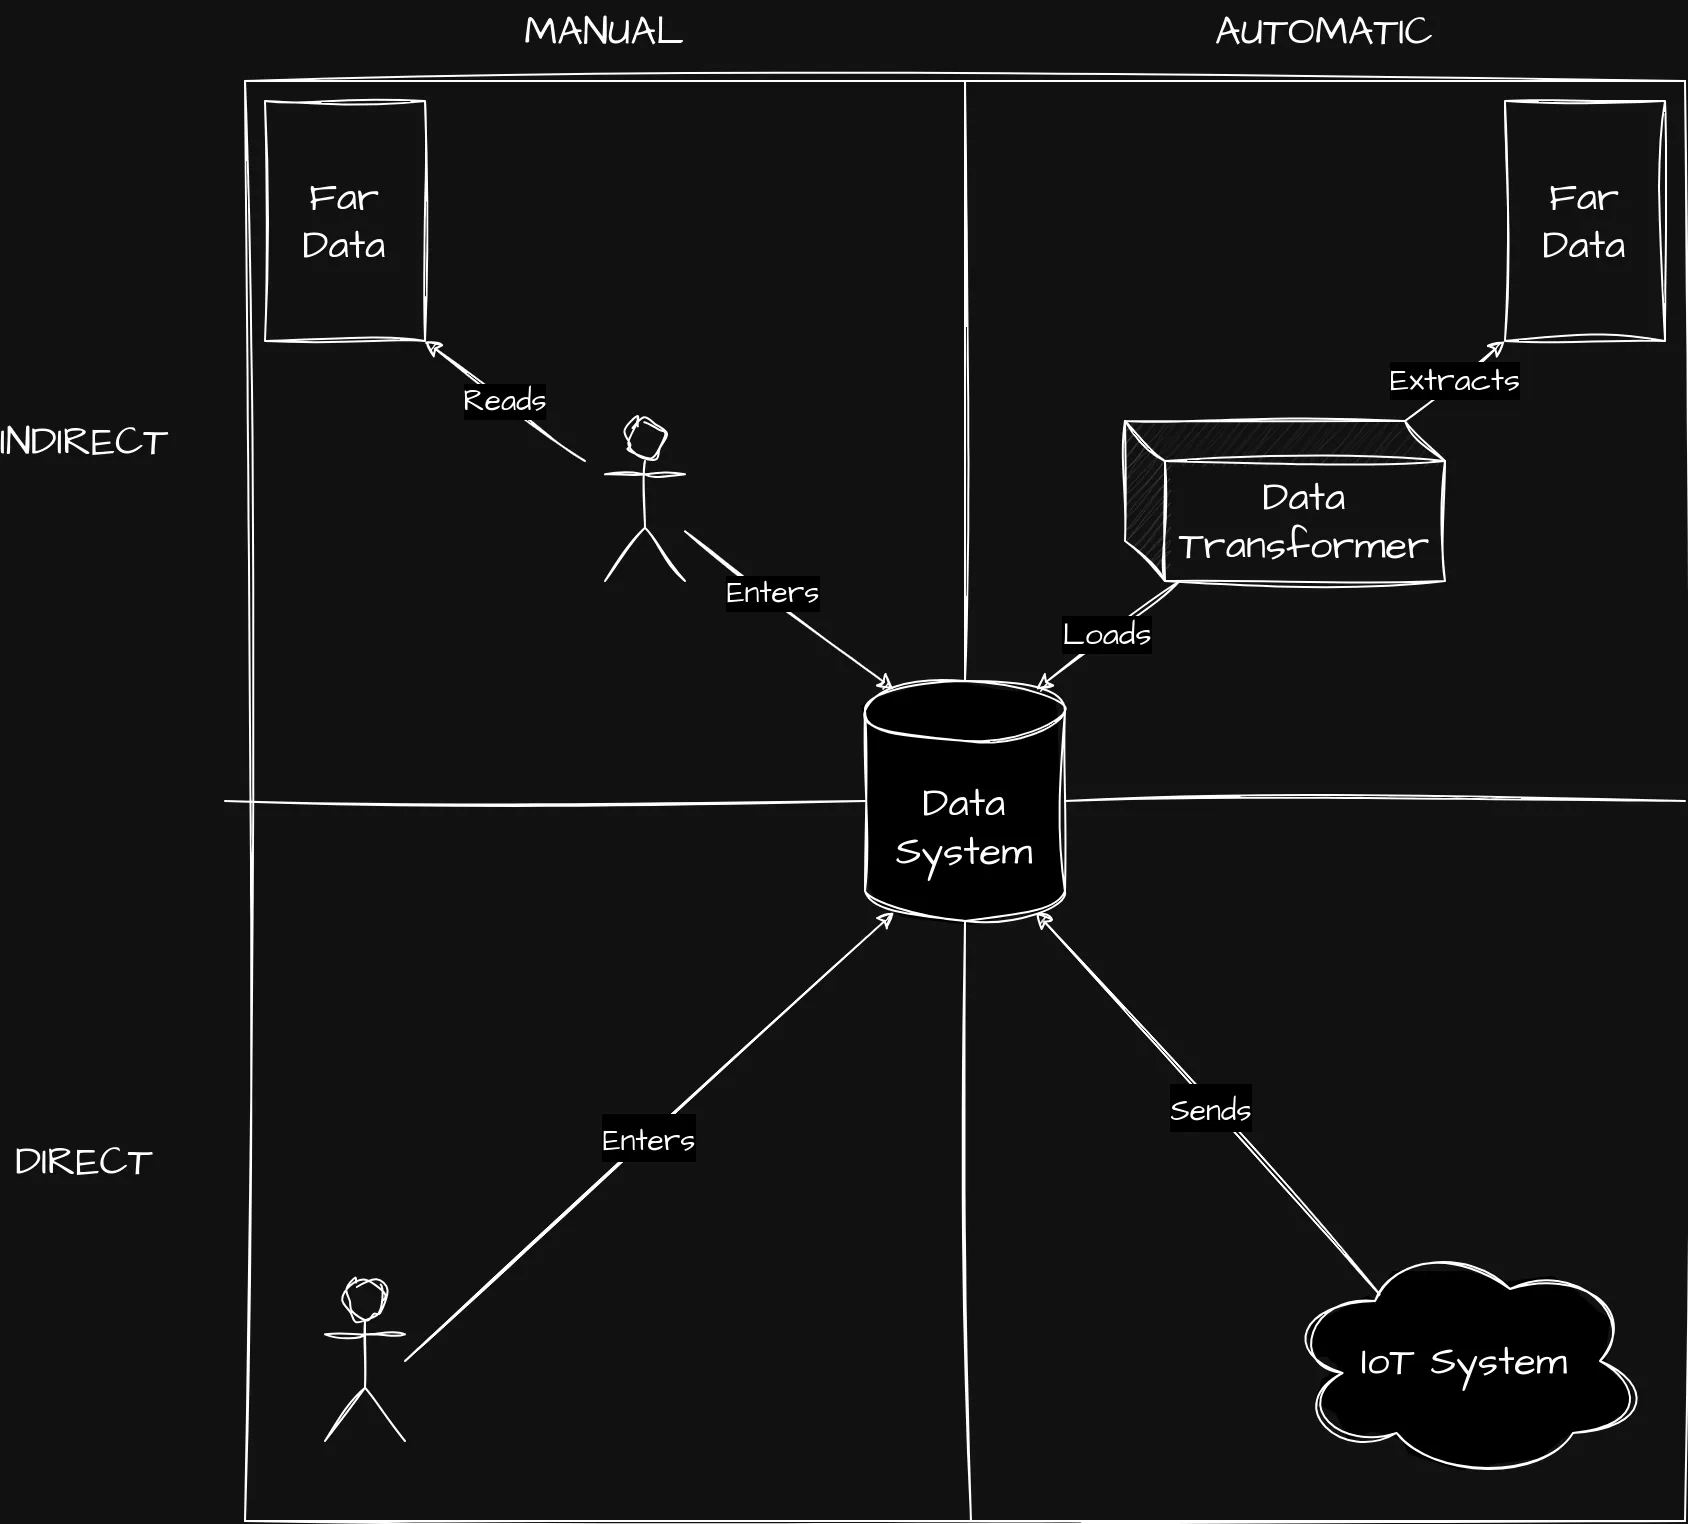
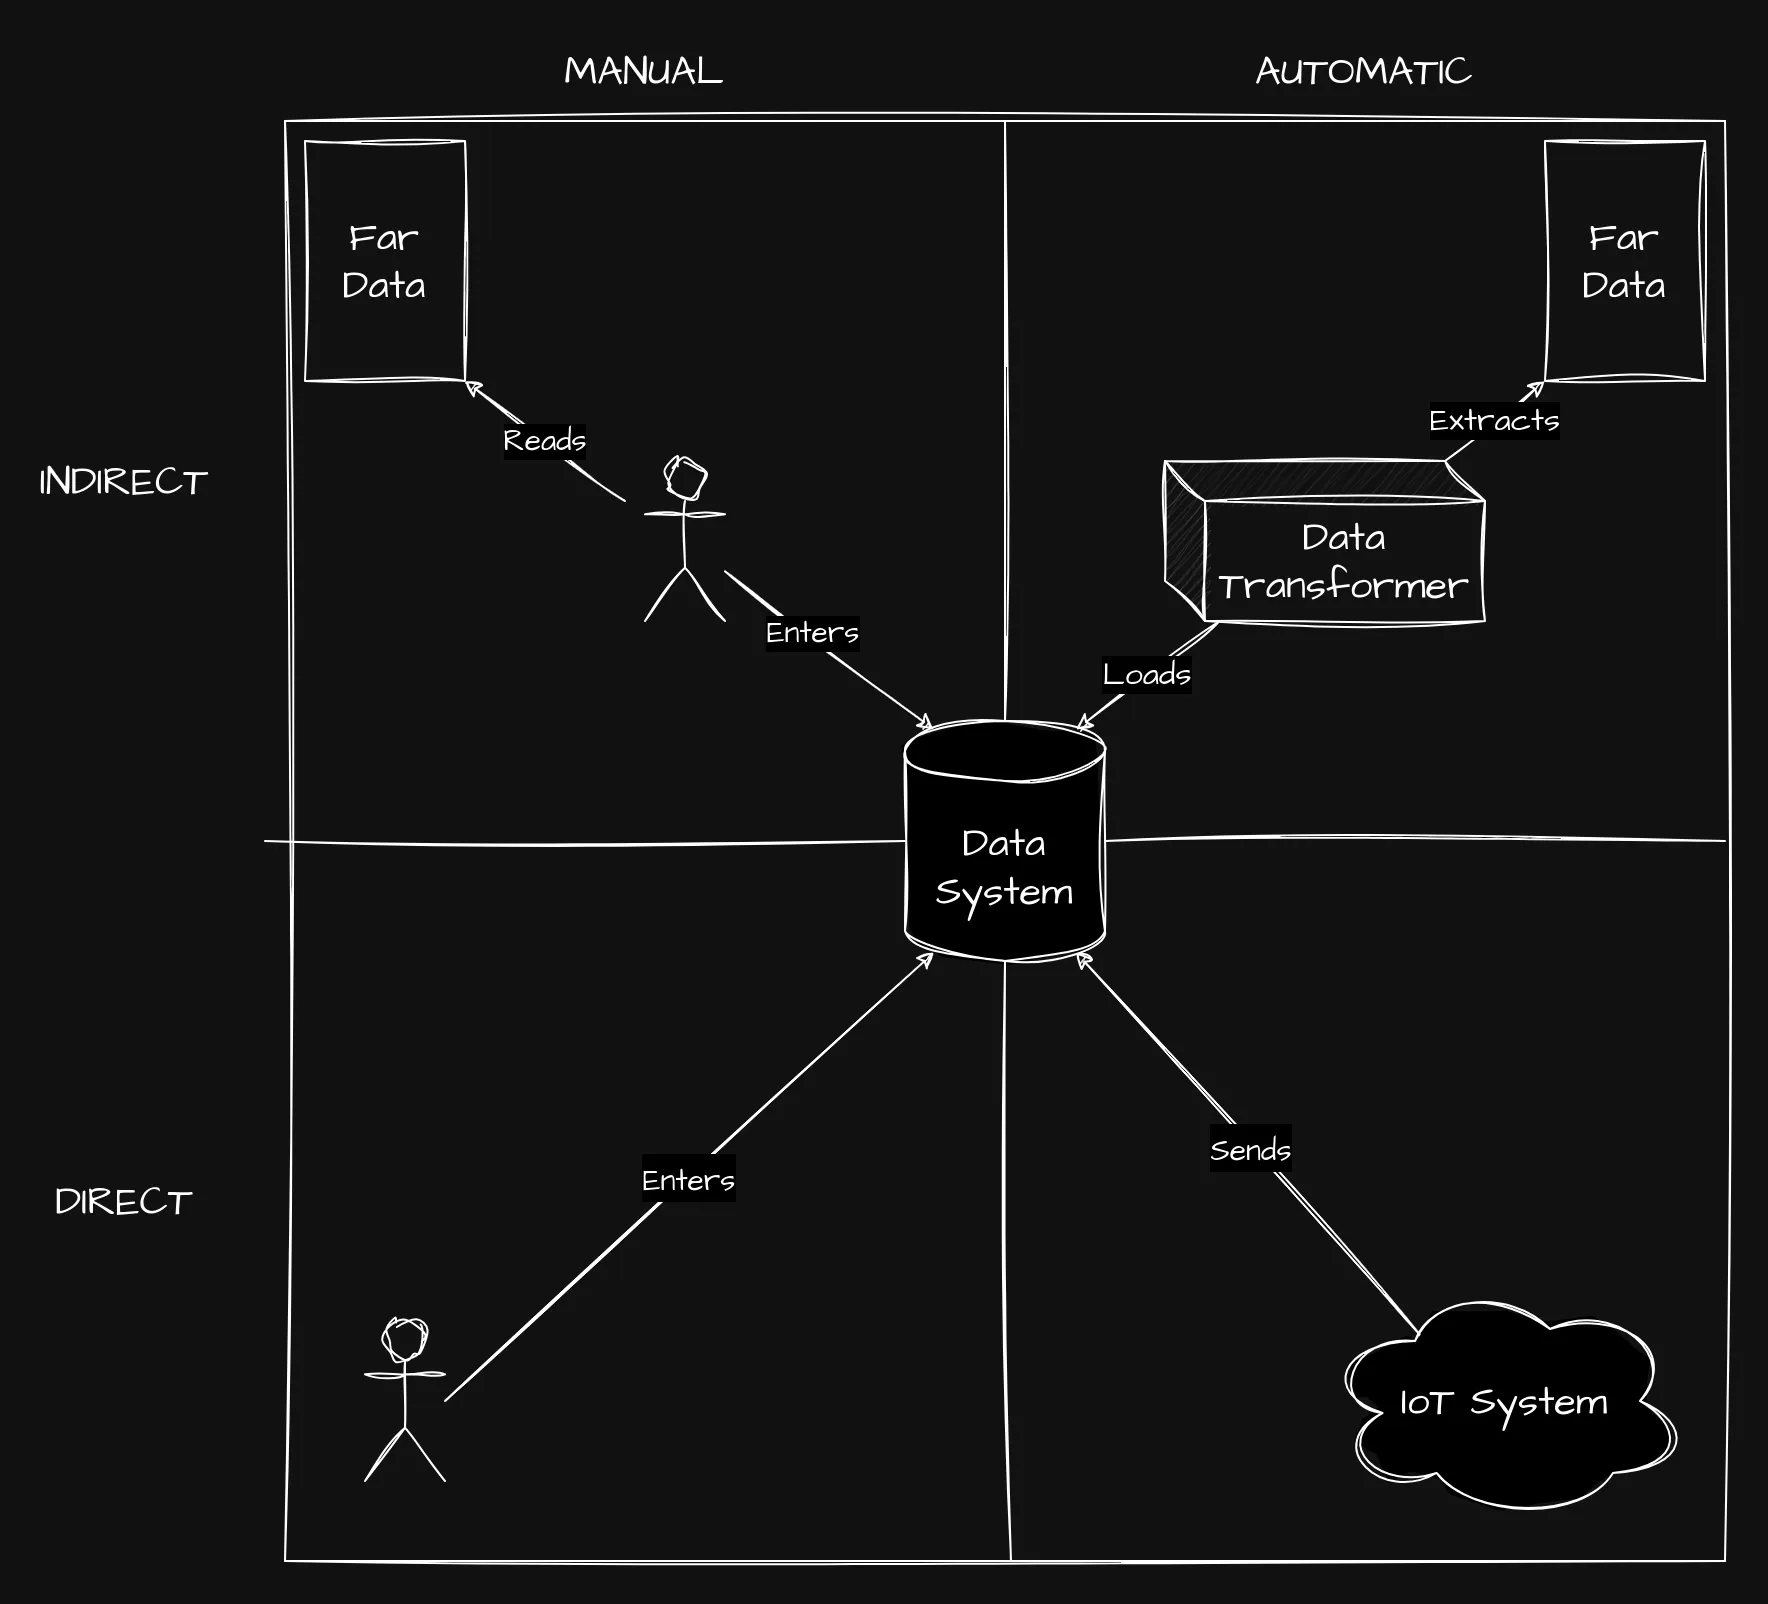
I did it. I no longer know if it's any good, but I did it

diff --git a/static/blog/240324 A Taxonomy of Supply Chain Data Capture.md b/static/blog/240324 A Taxonomy of Supply Chain Data Capture.md
@@ -1,9 +1,14 @@
-Most of my tech career has been in and around the supply chain; from procurement to operations, from traceability to manufacturing. I've seen many different ways of getting data into systems, some simple, some complex, some ingenious and some horrifying. But I believe all these ways fall into four categories, and that these categories are understandable to both business and technical stakeholders.
+---
+image: /img/scmdatacapture-63c20e218f2f7400.webp
+description: How to make sense of the chaos, and what direction to go in.
+---
+
+Most of my tech career has been in and around supply chain; from procurement to operations, from traceability to manufacturing. I've seen many different ways of getting data into systems, some simple, some complex, some ingenious and some horrifying. But I believe all these ways fall into four categories, and that these categories are understandable to both business and technical stakeholders.
 ## The Four Kinds of Data Capture
 
-We'll start from the top, here are the four kinds of supply chain data capture:
+We'll start from the top:
 
-![Alt text](https://assets.digitalocean.com/articles/alligator/boo.svg "a title")
+![A 4 by 4 grid showing the combinations described below](/img/scmdatacapture-63c20e218f2f7400.webp)
 
 From worst to best, these are:
 
@@ -20,7 +25,7 @@ Most supply chain organisations will have a data system they consider "theirs". 
 For the purpose of this article, I will call this your Data System.
 ## Data, Near & Far
 
-Your Data System stores data in a specific *format*; you might think of this as the 'shape' or 'format' of a data; more technical readers will know this as a 'schema'. 
+Your Data System stores data in a specific *format*; you might think of this as the 'shape' of the data; more technical readers will know this as a 'schema'. 
 
 Data flows into your system from suppliers, customers, and your own staff. When this data has a format similar to what's in your data system, we call it *Near Data*; when the format differs greatly, we call this *Far Data*. This is a spectrum; we can talk of data being *nearer* and *further* to your own data system. The further data is, the more work is needed to make it usable in your Data System - and by extension useful to your organization.
 
@@ -42,10 +47,11 @@ The supply chain classic. Get an email with an attachment (Far Data), print it o
 Transforming these processes to Manual/Direct or Automatic/Indirect is step one in supply chain digitization.
 ### Manual/Direct
 
-Data is entered manually, but it comes directly into your data system, not through a middle man. A great example of this is a customer ordering through an e-commerce site integrated 
+Data is entered manually, but it comes directly into your data system, not through a middle man. A great example of this is a customer ordering through an e-commerce site integrated with your data system. Another example is an ERP set up where staff can enter data directly, without needing to use paper.
+
 ### Automatic/Indirect
 
-Something less often seen, but a powerful technique. Far Data is automatically captured processed, then loaded into your main data systems (the more technical among you will recognize this as an [ETL](https://learn.microsoft.com/en-us/azure/architecture/data-guide/relational-data/etl) process).
+Something less often seen, but a powerful technique. Far Data is automatically captured, processed, then loaded into your main Data System (the more technical among you will recognize this as [ETL](https://learn.microsoft.com/en-us/azure/architecture/data-guide/relational-data/etl)).
 
 This can be a pragmatic choice when fully digitizing the 'edges' of your system is impractical, say when suppliers or customers insist on sending you data in their own formats.
 
@@ -54,10 +60,10 @@ A note here on data quality. We could introduce another axis here, representing 
 
 The gold standard of data capture. Data comes directly into your system, with no human interaction necessarily.
 
-This can be achieved at an inter-organisational level if both parties 1) agree on an automated, electronic method of communication (likely an API) and 2)  agree to the same data standard - if the same EDI is used, then no transformation to near data formats is needed. The EDI is your Near Datra format.
+This can be achieved between supply chain nodes if both parties 1) agree on an automated, electronic method of communication (likely an API) and 2)  agree to the same data standard; if the same EDI is used, then no transformation to Near Data formats is needed.
 
-Another way is to record data from your own IoT deployments, and load that information directly into your data system; if you can control the data flow from Electronic Sensor to ERP, you can keep data transformations to a minimum.
+Another way is to record data from your own IoT deployments, and load that information directly into your data system; if you can control the data flow from Electronic Sensor to ERP, you can keep transformations to a minimum.
+
 ## Closing Remarks
 
-This article was intended to be accessible for Supply Chain professionals who understand that they need data for visibility, traceability or simply analytical purposes, but may not know where to start. As always, my email is open for comments and constructive criticism.
-
+I hope you've found this article useful. As always, my email is open for comments and constructive criticism.
